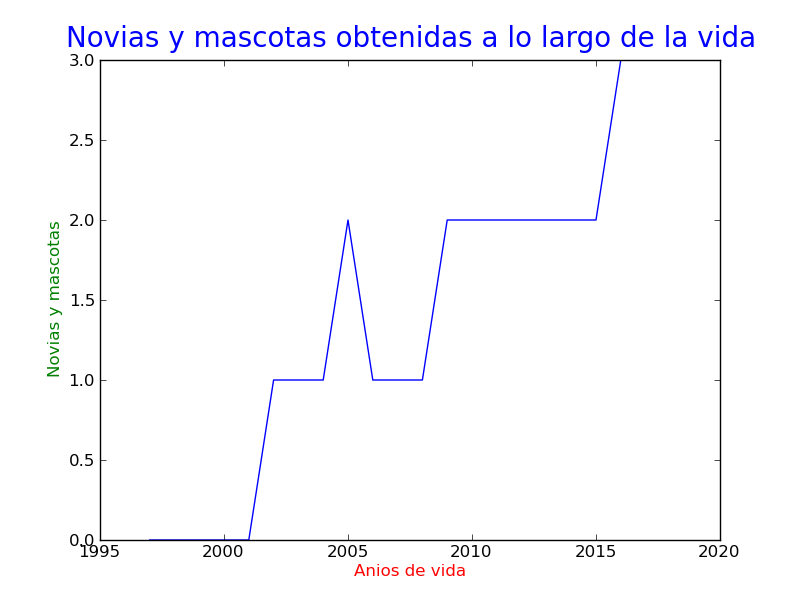
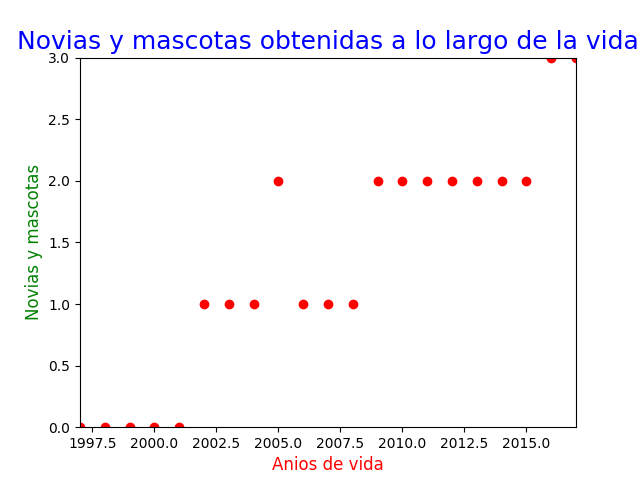
Add files via upload

diff --git a/temp.py b/temp.py
@@ -4,12 +4,12 @@ import pylab as pl
 x = [1997,1998,1999,2000,2001,2002,2003,2004,2005,2006,2007,2008,2009,2010,2011,2012,2013,2014,2015,2016,2017]
 #Crea un vector (arreglo) con valores en el eje y para cada valor en el eje x
 y = [0,0,0,0,0,1,1,1,2,1,1,1,2,2,2,2,2,2,2,3,3]
-
-pl.title('Novias y mascotas obtenidas a lo largo de la vida', fontsize = 20, color = 'blue')
+pl.title('Novias y mascotas obtenidas a lo de la vida', fontsize = 20, color = 'blue')
 pl.xlabel('Anios de vida', fontsize = 12, color = 'red')
 pl.ylabel('Novias y mascotas', fontsize = 12, color = 'green')
 
 #Grafica el vector x contra el vector y
-pl.plot(x,y)
+pl.axis([1997,2017, 0,3])
+pl.plot(x,y, 'ro')
 #Guarda la grafica de formato png
 pl.savefig('templ.png')
